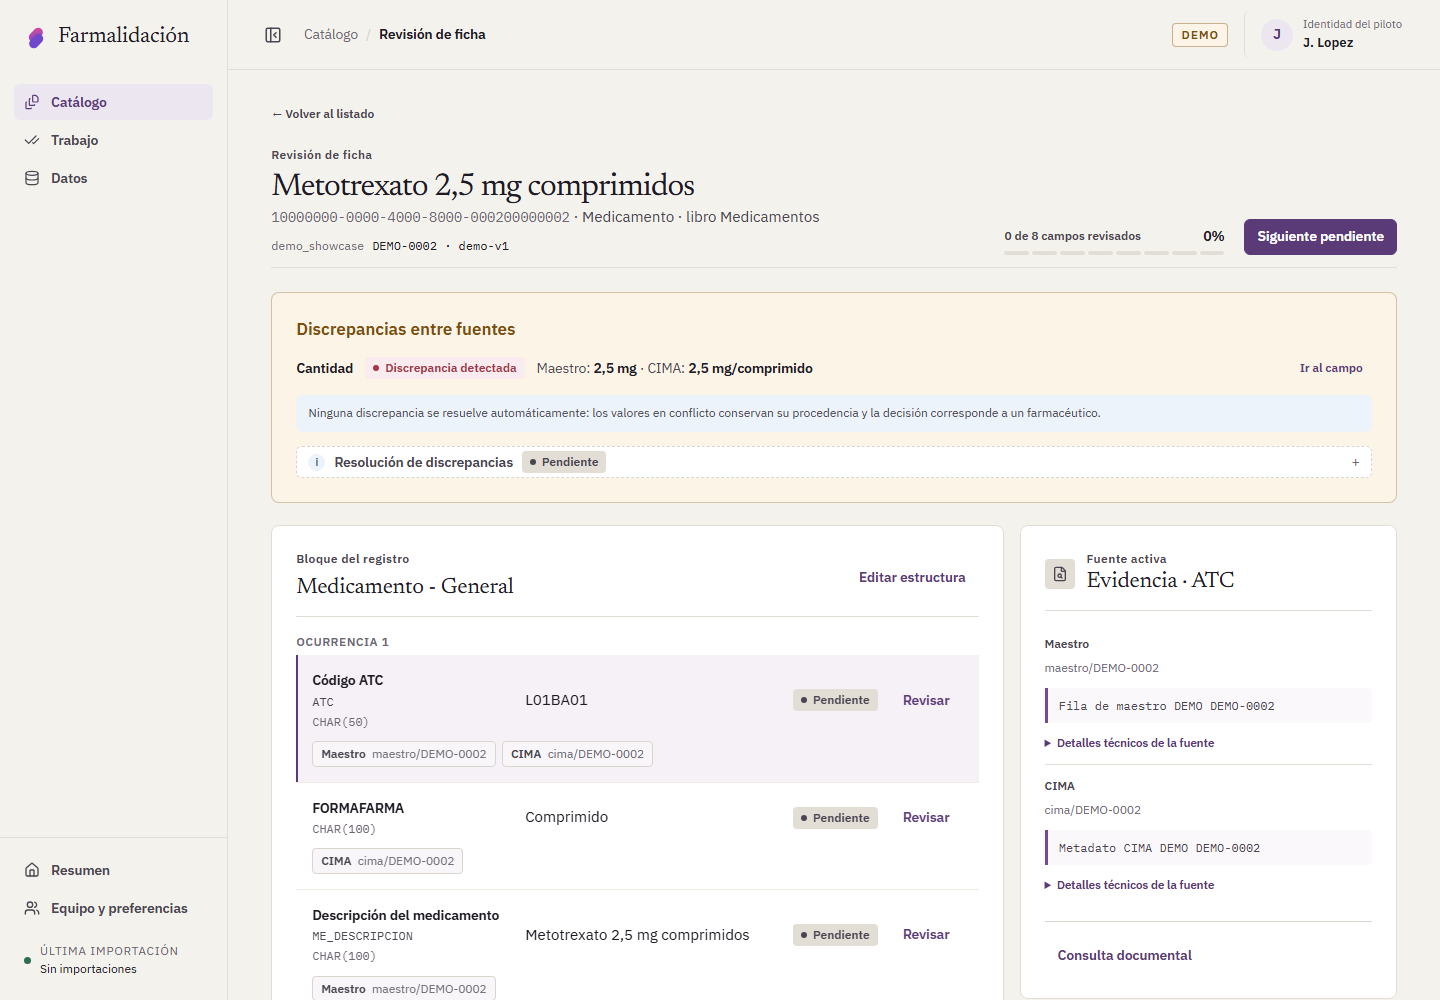
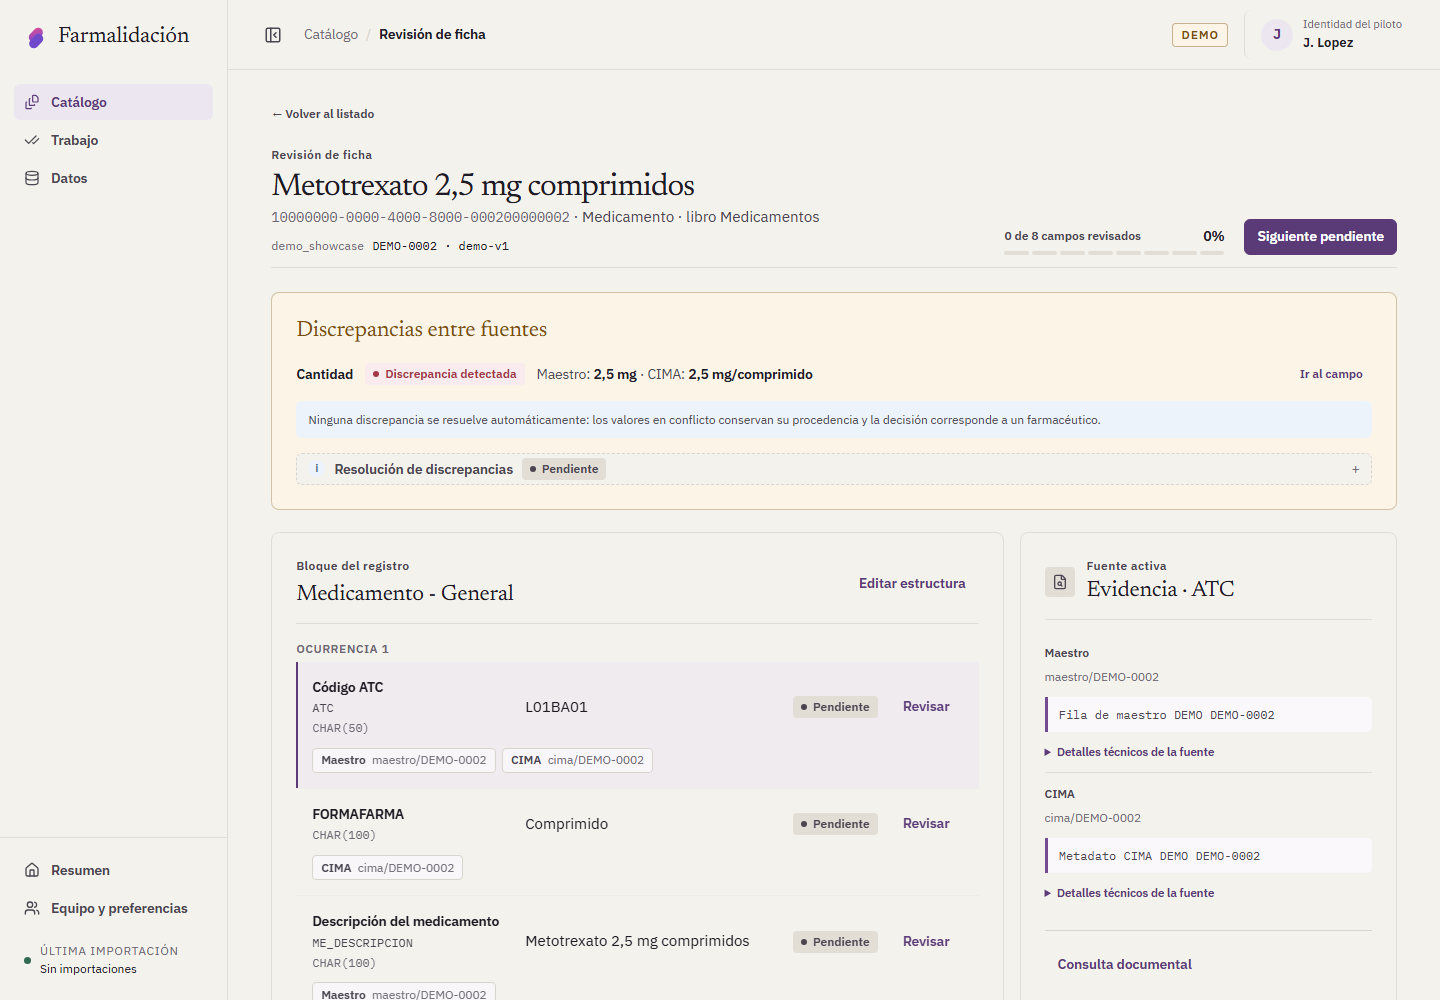
Todo sobre el mismo papel: recuadros y tablas sin blanco
Las tablas y los recuadros dejaban un salto de blanco puro sobre el
fondo cálido. --surface pasa a ser el mismo papel del fondo y las capas
se separan con líneas; un token nuevo, --field, mantiene en blanco sólo
lo que se escribe o se elige (campos, desplegables, opción marcada del
control segmentado, menú del selector de revisor). Se sustituyen los
blancos escritos a mano que quedaban en las hojas históricas.

diff --git a/validador-fichas-tecnicas-repo-kit/frontend/src/styles.css b/validador-fichas-tecnicas-repo-kit/frontend/src/styles.css
@@ -360,13 +360,13 @@ h3 { color: var(--ink); }
 /* ---------- Pulido de componentes y espacios de trabajo ---------- */
 
 .reviewer-select { position: relative; }
-.reviewer-select__trigger { display: flex; align-items: center; gap: .65rem; width: 100%; border: 1px solid var(--line); color: var(--ink); background: #fff; cursor: pointer; text-align: left; }
+.reviewer-select__trigger { display: flex; align-items: center; gap: .65rem; width: 100%; border: 1px solid var(--line); color: var(--ink); background: var(--field); cursor: pointer; text-align: left; }
 .reviewer-select__copy { display: grid; min-width: 0; flex: 1; }
 .reviewer-select__copy > span { color: var(--ink-faint); font-size: .62rem; }
 .reviewer-select__copy strong { overflow: hidden; font-size: .78rem; text-overflow: ellipsis; white-space: nowrap; }
 .reviewer-select__chevron { color: var(--ink-soft); font-size: 1.1rem; transition: transform .18s ease; }
 .reviewer-select__chevron--open { transform: rotate(180deg); }
-.reviewer-select__menu { position: absolute; top: calc(100% + .5rem); right: 0; width: 100%; padding: .4rem; border: 1px solid var(--line); background: #fff; }
+.reviewer-select__menu { position: absolute; top: calc(100% + .5rem); right: 0; width: 100%; padding: .4rem; border: 1px solid var(--line); background: var(--field); }
 .reviewer-select__menu button { display: grid; grid-template-columns: 30px minmax(0, 1fr) auto; align-items: center; gap: .6rem; width: 100%; padding: .58rem; border: 0; color: var(--ink); background: transparent; text-align: left; cursor: pointer; }
 .reviewer-select__menu button > span:nth-child(2) { display: grid; }
 .reviewer-select__menu strong { font-size: .78rem; }
@@ -375,7 +375,7 @@ h3 { color: var(--ink); }
 
 select { appearance: none; padding-right: 2.3rem; background-image: linear-gradient(45deg, transparent 50%, #64748b 50%), linear-gradient(135deg, #64748b 50%, transparent 50%); background-position: calc(100% - 15px) 50%, calc(100% - 10px) 50%; background-size: 5px 5px, 5px 5px; background-repeat: no-repeat; }
 
-.page-stat { display: grid; grid-template-columns: auto auto; align-items: center; gap: 0 .5rem; min-width: 112px; padding: .7rem .9rem; border: 1px solid var(--line); background: #fff; }
+.page-stat { display: grid; grid-template-columns: auto auto; align-items: center; gap: 0 .5rem; min-width: 112px; padding: .7rem .9rem; border: 1px solid var(--line); background: var(--surface); }
 .page-stat strong { grid-row: 1 / 3; }
 .queue-add select { width: 100%; min-width: 0; }
 .queue-toolbar__title { grid-column: 1 / -1; display: flex; align-items: center; gap: .5rem; margin-bottom: .05rem; color: var(--ink); font-size: .82rem; font-weight: 750; }
@@ -407,7 +407,7 @@ select { appearance: none; padding-right: 2.3rem; background-image: linear-gradi
 .empty-state--compact p { align-self: center; }
 
 .validation-overview { display: grid; grid-template-columns: repeat(3, minmax(0, 1fr)); }
-.validation-overview > div { display: grid; grid-template-columns: 42px auto 1fr; align-items: center; gap: 0 .75rem; background: #fff; }
+.validation-overview > div { display: grid; grid-template-columns: 42px auto 1fr; align-items: center; gap: 0 .75rem; background: var(--surface); }
 .validation-overview__icon { display: grid; place-items: center; grid-row: 1 / 3; color: var(--accent); background: var(--accent-soft); font-weight: 780; }
 .validation-overview__icon--danger { color: var(--danger); background: var(--danger-soft); }
 .validation-overview__icon--success { color: var(--success); background: var(--success-soft); }
@@ -420,7 +420,7 @@ select { appearance: none; padding-right: 2.3rem; background-image: linear-gradi
 
 .review-screen { width: min(1520px, 100%); }
 .review-screen > .back { margin-bottom: -.4rem; }
-.review-progress { display: grid; grid-template-columns: auto minmax(180px, 1fr) auto; align-items: center; gap: 1rem; padding: .72rem 1rem; border: 1px solid var(--line); background: #fff; }
+.review-progress { display: grid; grid-template-columns: auto minmax(180px, 1fr) auto; align-items: center; gap: 1rem; padding: .72rem 1rem; border: 1px solid var(--line); background: var(--surface); }
 .review-progress__label { color: var(--ink); font-size: .8rem; font-weight: 720; white-space: nowrap; }
 .review-progress span { color: var(--ink-faint); font-size: .76rem; }
 .review-progress__track { overflow: hidden; border-radius: 999px; }

diff --git a/validador-fichas-tecnicas-repo-kit/frontend/src/ui/components.css b/validador-fichas-tecnicas-repo-kit/frontend/src/ui/components.css
@@ -65,7 +65,7 @@ code, kbd, .mono { font-family: var(--font-mono); font-size: var(--text-code); f
   padding: 2px;
   border: 1px solid var(--line);
   border-radius: var(--radius-control);
-  background: var(--canvas);
+  background: var(--line-faint);
 }
 .segmented__option {
   display: inline-flex;
@@ -84,7 +84,7 @@ code, kbd, .mono { font-family: var(--font-mono); font-size: var(--text-code); f
   transition: background-color var(--motion-fast) ease, color var(--motion-fast) ease;
 }
 .segmented__option:hover { color: var(--ink); }
-.segmented__option[aria-pressed='true'] { color: var(--ink); background: var(--surface); box-shadow: 0 0 0 1px var(--line), var(--shadow-raised); }
+.segmented__option[aria-pressed='true'] { color: var(--ink); background: var(--field); box-shadow: 0 0 0 1px var(--line), var(--shadow-raised); }
 .segmented__count { color: var(--ink-faint); font-variant-numeric: tabular-nums; font-size: var(--text-xs); }
 
 /* ── Distintivos de estado ─────────────────────────────────────────────── */
@@ -175,7 +175,7 @@ code, kbd, .mono { font-family: var(--font-mono); font-size: var(--text-code); f
   min-height: 34px;
   border-color: var(--line);
   border-radius: var(--radius-control);
-  background-color: var(--surface);
+  background-color: var(--field);
   font-size: var(--text-sm);
 }
 .app-shell :is(input, select, textarea):hover:not(:disabled):not(:focus) { border-color: var(--ink-faint); }
@@ -254,7 +254,7 @@ code, kbd, .mono { font-family: var(--font-mono); font-size: var(--text-code); f
 .app-shell .button { padding-block: 0; }
 .app-shell :is(.button--sm, .queue-list__actions .button, .catalog-review-cell .button, .button.back) { height: var(--control-height-sm); min-height: var(--control-height-sm); }
 .app-shell .button--icon { width: var(--control-height); padding: 0; }
-.app-shell textarea { min-height: calc(var(--control-height) * 2); padding: var(--space-2) var(--space-3); border-color: var(--line); border-radius: var(--radius-control); background-color: var(--surface); font-size: var(--text-sm); }
+.app-shell textarea { min-height: calc(var(--control-height) * 2); padding: var(--space-2) var(--space-3); border-color: var(--line); border-radius: var(--radius-control); background-color: var(--field); font-size: var(--text-sm); }
 
 /* Recuadros: un único relleno, que la densidad ajusta. */
 .app-shell :is(.panel, .filter-panel, .queue-add) { padding: var(--panel-pad); border-color: var(--line-soft); border-radius: var(--radius); box-shadow: none; }

diff --git a/validador-fichas-tecnicas-repo-kit/frontend/src/ui/tokens.css b/validador-fichas-tecnicas-repo-kit/frontend/src/ui/tokens.css
@@ -32,7 +32,10 @@
 
   /* Color — tema claro */
   --canvas: #f4f2ec;
-  --surface: #ffffff;
+  /* Todo sobre el mismo papel: recuadros y tablas comparten el fondo y se
+     separan con líneas. Sólo donde se escribe (--field) queda en blanco. */
+  --surface: var(--canvas);
+  --field: #ffffff;
   --surface-sunken: #fbfaf7;
   --ink: #1f1b24;
   --ink-soft: #4a4550;
@@ -113,7 +116,8 @@
 
 :root[data-theme='dark'] {
   --canvas: #18161e;
-  --surface: #24212b;
+  --surface: var(--canvas);
+  --field: #24212b;
   --ink: #f4eff6;
   --ink-soft: #ccc3d2;
   --ink-faint: #ada2b6;
